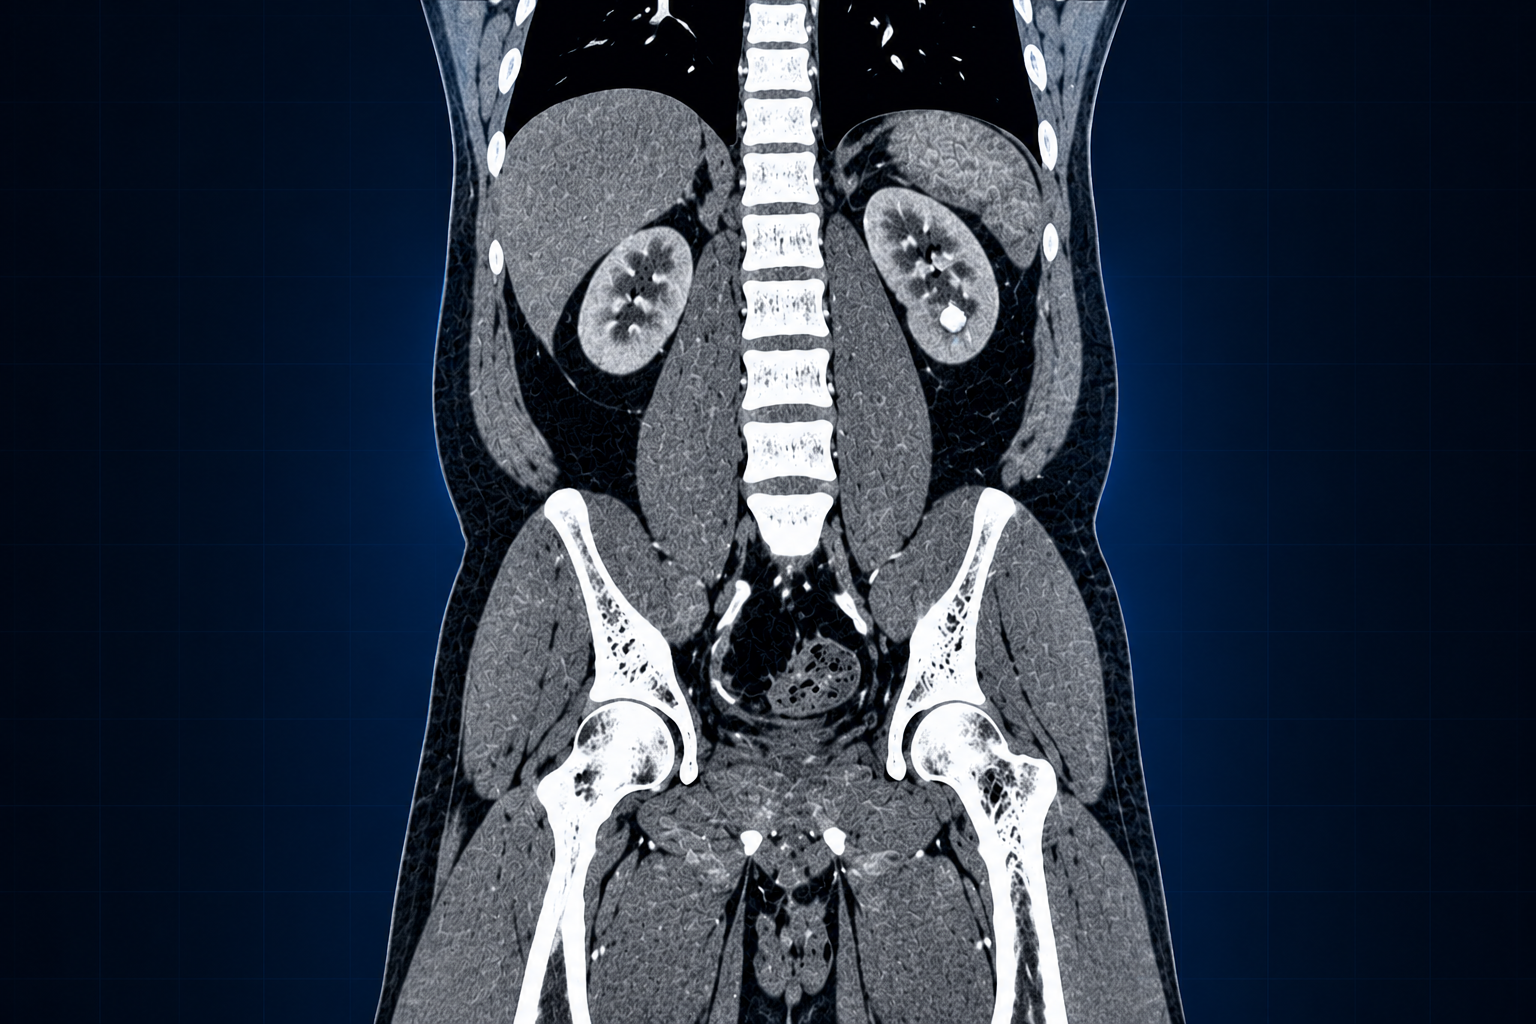
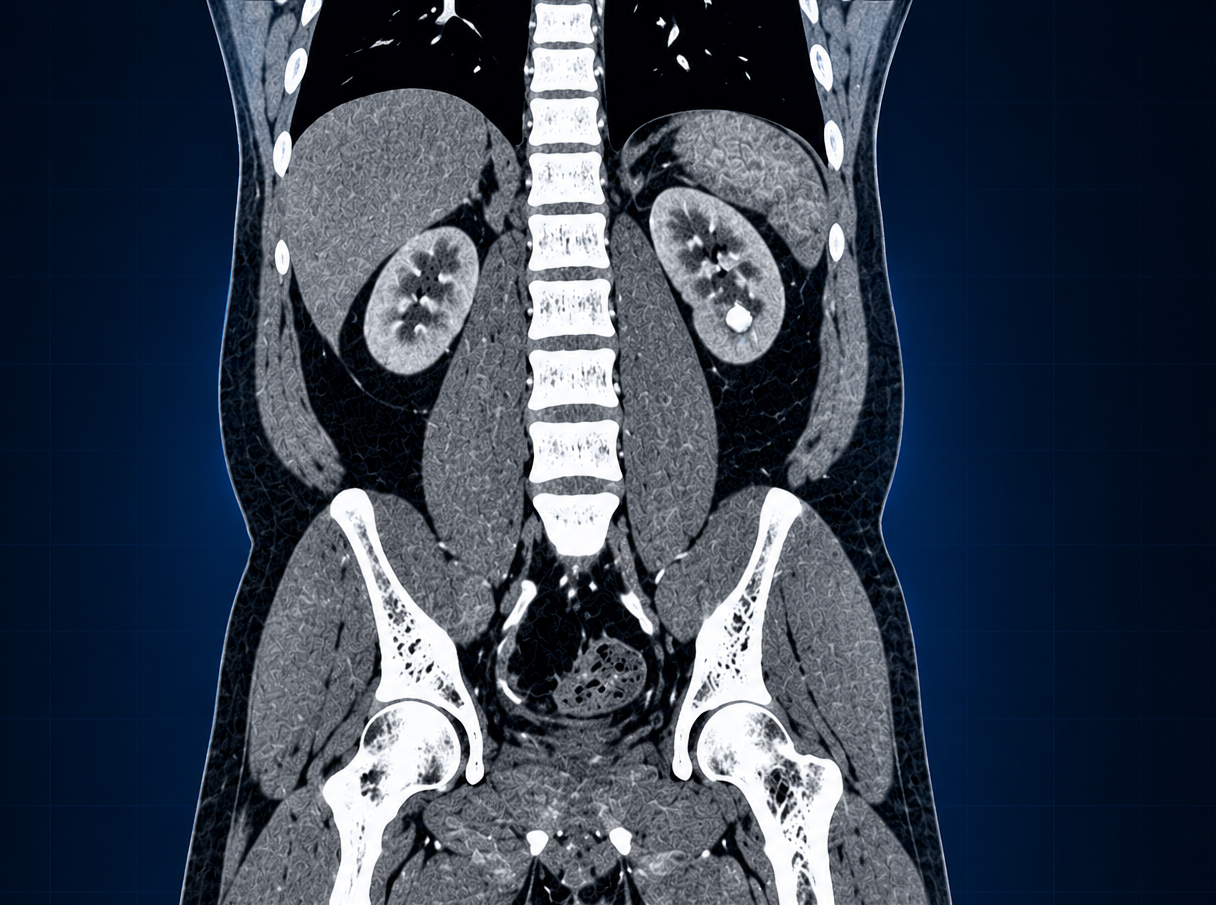
change bounding box size

diff --git a/src/components/Hero.jsx b/src/components/Hero.jsx
@@ -1,12 +1,11 @@
 
 import { useNavigate } from "react-router-dom";
 import { Swiper, SwiperSlide } from "swiper/react";
-import { Navigation, Pagination, Autoplay } from "swiper/modules";
+import { Pagination, Autoplay } from "swiper/modules";
 
 import { FiActivity, FiArrowRight } from "react-icons/fi";
 
 import "swiper/css";
-import "swiper/css/navigation";
 import "swiper/css/pagination";
 
 const slides = [
@@ -21,7 +20,7 @@ const slides = [
     title: "Intelligent",
     p1: "Stone Segmentation",
     description:
-      "Advanced AI-based segmentation to identify kidney stone boundaries and generate detailed segmentation masks from CT scan images.",
+      "Advanced AI-based segmentation using MedSAM to identify kidney stone boundaries and generate detailed segmentation masks from CT scan images.",
     badge: "Advanced Image Segmentation",
   },
   {
@@ -34,8 +33,8 @@ const slides = [
 ];
 
 const STONE = {
-  left: 62,
-  top: 30.9,
+  left: 60,
+  top: 35,
   width: 5.4,
   height: 7.2,
 };
@@ -50,7 +49,6 @@ const ScanViewer = () => (
 
       {/* TOP BAR */}
       <div className="flex items-center justify-between border-b border-white/10 bg-slate-900 px-4 py-3">
-
         <span className="text-xs font-semibold text-slate-200 sm:text-sm">
           CT Scan · Coronal View
         </span>
@@ -59,14 +57,13 @@ const ScanViewer = () => (
           <span className="h-2 w-2 rounded-full bg-cyan-400" />
           <span className="text-cyan-300">Analysis Ready</span>
         </span>
-
       </div>
 
-      {/* CT IMAGE */}
-      <div className="relative h-[170px] w-full bg-black sm:h-[260px] lg:h-[350px]">
+      {/* CT IMAGE - SAME HEIGHT AS ABOUT IMAGE */}
+      <div className="relative h-64 w-full bg-black sm:h-80 lg:h-[350px]">
 
         <img
-          src="images/a_high_resolution_medically_styled_ct_scan_image.png"
+          src="/images/a_high_resolution_medically_styled_ct_scan_image.png"
           alt="CT scan showing kidney stone"
           className="absolute inset-0 h-full w-full object-contain"
           loading="eager"
@@ -96,12 +93,10 @@ const ScanViewer = () => (
         <div className="absolute bottom-3 left-3 rounded-md border border-cyan-300/30 bg-slate-950/90 px-3 py-1.5 text-xs font-medium text-cyan-300">
           Kidney Stone Detected
         </div>
-
       </div>
 
       {/* BOTTOM BAR */}
       <div className="flex items-center justify-between border-t border-white/10 bg-slate-900 px-4 py-3">
-
         <span className="text-xs text-slate-400">
           1 Stone Detected
         </span>
@@ -109,7 +104,6 @@ const ScanViewer = () => (
         <span className="text-xs font-medium text-cyan-300">
           Left Kidney
         </span>
-
       </div>
 
     </div>
@@ -123,19 +117,17 @@ const Hero = () => {
     <section className="relative w-full overflow-hidden bg-slate-950">
 
       <Swiper
-        modules={[Navigation, Pagination, Autoplay]}
-        navigation
+        modules={[Pagination, Autoplay]}
         pagination={{ clickable: true }}
         autoplay={{
           delay: 5000,
           disableOnInteraction: false,
         }}
         loop
-        className="hero-swiper h-[calc(100svh-80px)] min-h-[520px] max-h-[850px] [--swiper-theme-color:#60a5fa] [--swiper-navigation-size:20px] [--swiper-pagination-bullet-inactive-color:#94a3b8] [--swiper-pagination-bullet-inactive-opacity:0.6]"
+        className="hero-swiper h-[calc(100svh-80px)] min-h-[520px] max-h-[850px] [--swiper-pagination-bullet-inactive-color:#94a3b8] [--swiper-pagination-bullet-inactive-opacity:0.6]"
       >
 
         {slides.map((slide, index) => (
-
           <SwiperSlide key={index}>
 
             <div className="relative flex h-full w-full items-center overflow-hidden bg-slate-950">
@@ -167,22 +159,17 @@ const Hero = () => {
 
                   {/* BADGE */}
                   <div className="mb-3 inline-flex items-center gap-2 rounded-full border border-blue-400/30 bg-blue-400/10 px-3 py-2 text-[11px] font-semibold text-blue-300 sm:mb-5 sm:px-4 sm:text-xs">
-
                     <FiActivity className="text-sm" />
-
                     {slide.badge}
-
                   </div>
 
                   {/* HEADING */}
                   <h1 className="max-w-2xl text-3xl font-bold leading-[1.15] tracking-tight text-white sm:text-4xl lg:text-5xl xl:text-[54px]">
-
                     {slide.title}
 
                     <span className="mt-1 block bg-gradient-to-r from-blue-400 to-cyan-300 bg-clip-text text-transparent">
                       {slide.p1}
                     </span>
-
                   </h1>
 
                   {/* DESCRIPTION */}
@@ -224,7 +211,7 @@ const Hero = () => {
 
                     <div>
                       <p className="text-base font-bold text-cyan-400 sm:text-lg">
-                        SAM
+                        MedSAM
                       </p>
                       <p className="mt-1 text-[11px] text-slate-400 sm:text-xs">
                         Segmentation
@@ -241,22 +228,16 @@ const Hero = () => {
                     </div>
 
                   </div>
-
                 </div>
 
                 {/* RIGHT CONTENT */}
                 <div className="relative flex w-full items-center justify-center md:pl-3 lg:pl-6">
-
                   <ScanViewer />
-
                 </div>
 
               </div>
-
             </div>
-
           </SwiperSlide>
-
         ))}
 
       </Swiper>
@@ -272,21 +253,7 @@ const Hero = () => {
 
           .hero-swiper .swiper-button-next,
           .hero-swiper .swiper-button-prev {
-            color: #60a5fa;
-            transition: color 0.3s ease;
-          }
-
-          .hero-swiper .swiper-button-next:hover,
-          .hero-swiper .swiper-button-prev:hover {
-            color: #22d3ee;
-          }
-
-          .hero-swiper .swiper-button-prev {
-            left: 12px;
-          }
-
-          .hero-swiper .swiper-button-next {
-            right: 12px;
+            display: none !important;
           }
 
           .hero-swiper .swiper-pagination {
@@ -304,11 +271,6 @@ const Hero = () => {
           }
 
           @media (max-width: 767px) {
-            .hero-swiper .swiper-button-next,
-            .hero-swiper .swiper-button-prev {
-              display: none;
-            }
-
             .hero-swiper .swiper-pagination {
               bottom: 5px !important;
             }
